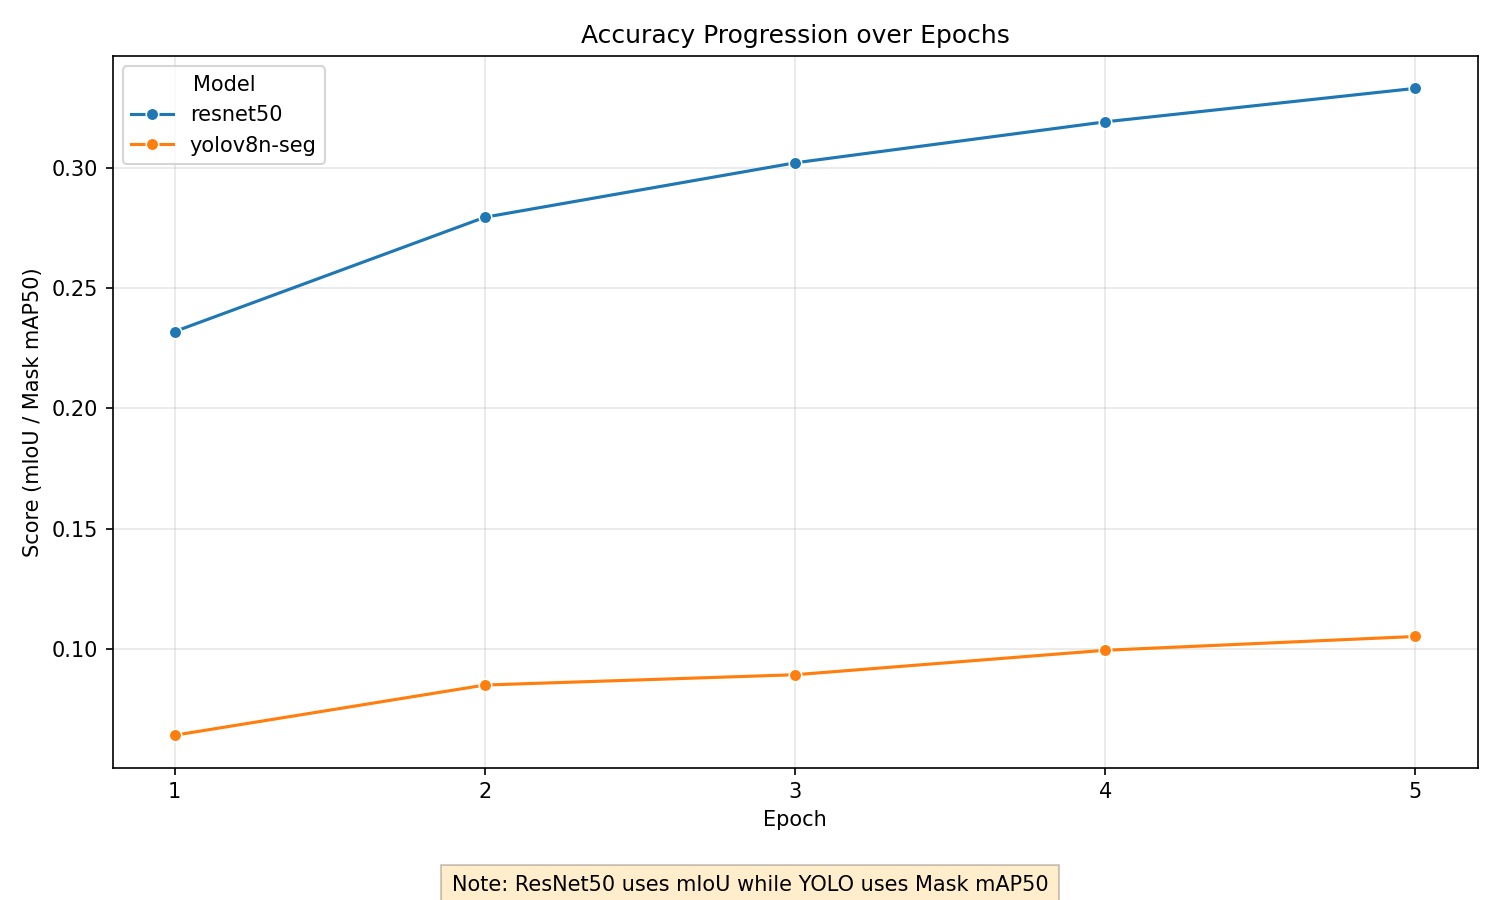
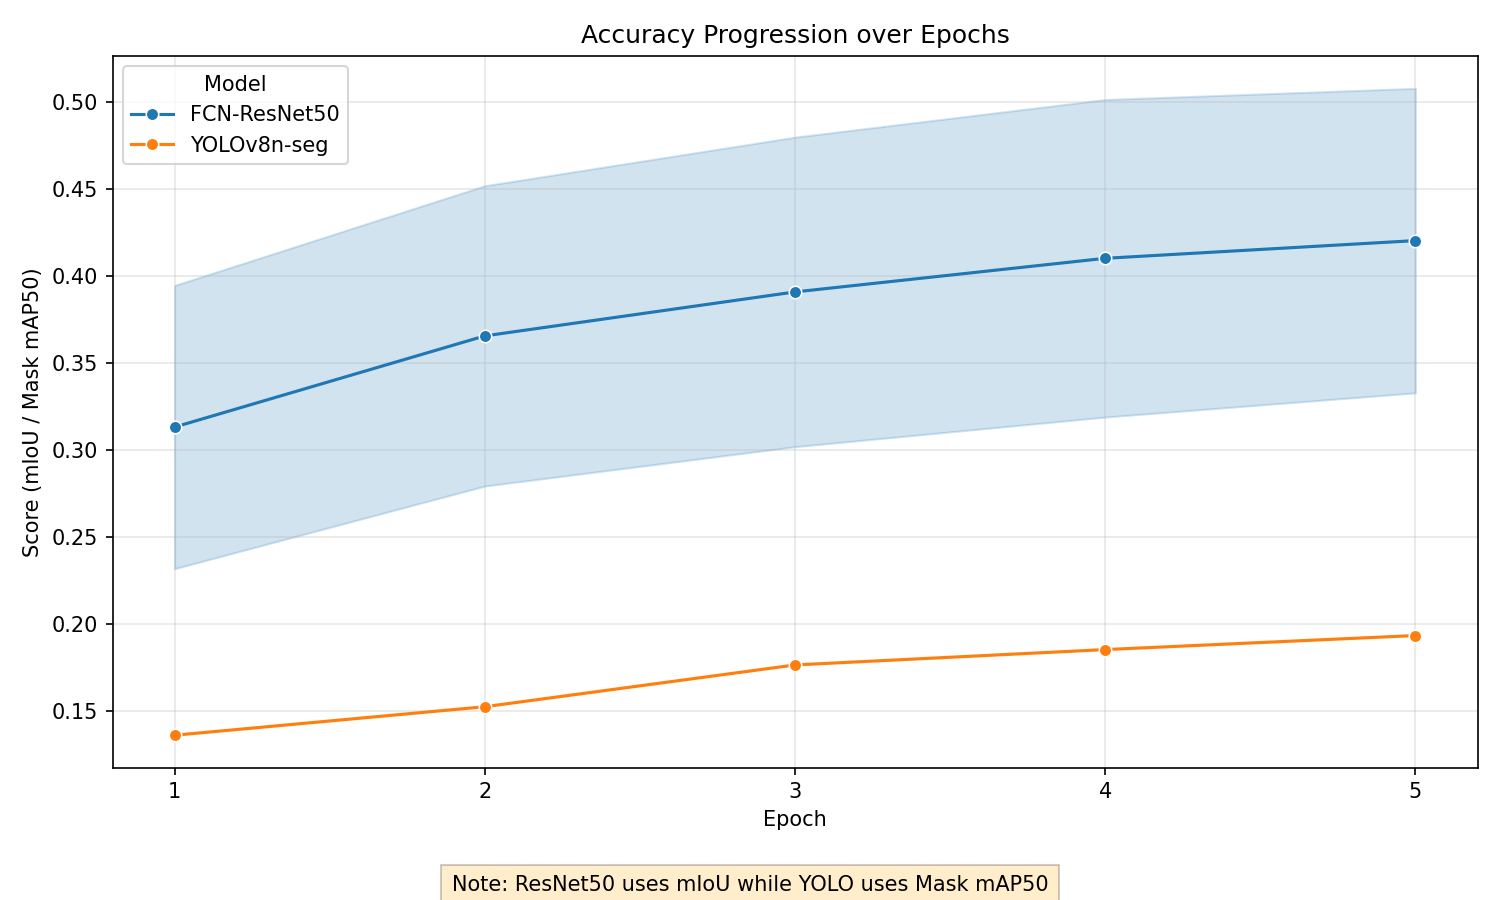
🚀 Final Delivery: Full Cityscapes Dataset Evaluation (ResNet50 vs YOLOv8n-seg), 2x2 grids, finalized documentation

diff --git a/src/visual_grid.py b/src/visual_grid.py
@@ -48,58 +48,66 @@ def colorize_label(mask):
 
 
 def main():
-    # pick a random validation image
+    # Setup directories
     yolo_root = Path('yolo_cityscapes')
+    out_dir = Path('Results_Comparison')
+    out_dir.mkdir(exist_ok=True)
+    
     val_images = sorted((yolo_root / 'images' / 'val').rglob('*.png'))
     if not val_images:
         print('No val images found')
         return
-    img_path = random.choice(val_images)
 
-    # raw image
-    img = Image.open(img_path).convert('RGB')
-
-    # ground truth mask path from original dataset
-    # infer filename base
-    base = img_path.name.replace('_leftImg8bit.png', '')
-    # city is parent dir name
-    city = img_path.parent.name
-    gt_path = Path('gtFine_trainvaltest') / 'gtFine' / 'val' / city / f"{base}_gtFine_labelTrainIds.png"
-    if not gt_path.exists():
-        # sometimes val images are in different folders; attempt alternative
-        gt_path = Path('gtFine_trainvaltest') / 'gtFine' / 'val' / city / f"{base}_gtFine_labelTrainIds.png"
-
-    gt = Image.open(gt_path).resize(img.size, resample=Image.NEAREST)
-    gt_arr = np.array(gt)
-    gt_col = colorize_label(gt_arr)
-
-    # baseline prediction
-    baseline_weights = Path('runs/phase2_baseline_run3/resnet50_Run3_Epoch5.pth')
+    # Load models once outside the loop
     device = torch.device('cuda' if torch.cuda.is_available() else 'cpu')
+    baseline_weights = Path('runs/phase2_baseline_run5/resnet50_Run5_Epoch5.pth')
+    yolo_weights = Path('runs/segment/runs/segment/train_final/weights/best.pt')
+    
+    print("Loading models...")
     baseline_model = load_baseline_model(baseline_weights, device)
-    baseline_mask = predict_baseline(baseline_model, img, size=(512,512), device=device)
-    baseline_col = colorize_label(baseline_mask)
+    
+    # Generate 5 comparisons
+    for i in range(1, 6):
+        print(f"Generating visual comparison {i}/5...")
+        img_path = random.choice(val_images)
+        
+        # raw image
+        img = Image.open(img_path).convert('RGB')
+        
+        # ground truth
+        base = img_path.name.replace('_leftImg8bit.png', '')
+        city = img_path.parent.name
+        gt_path = Path('gtFine_trainvaltest') / 'gtFine' / 'val' / city / f"{base}_gtFine_labelTrainIds.png"
+        
+        if not gt_path.exists():
+             continue # Skip if GT is missing for this random pick
+             
+        gt = Image.open(gt_path).resize(img.size, resample=Image.NEAREST)
+        gt_arr = np.array(gt)
+        gt_col = colorize_label(gt_arr)
 
-    # YOLO prediction (visual overlay)
-    yolo_weights = Path('runs/segment/runs/segment/train_trimmed/weights/best.pt')
-    if yolo_weights.exists():
-        yolo_vis = predict_yolo(yolo_weights, img_path)
-    else:
-        yolo_vis = np.array(img)
+        # baseline prediction
+        baseline_mask = predict_baseline(baseline_model, img, size=(512,512), device=device)
+        baseline_col = colorize_label(baseline_mask)
 
-    # plot grid: raw, gt, baseline, yolo
-    fig, axes = plt.subplots(1,4, figsize=(20,6))
-    axes[0].imshow(img); axes[0].set_title('Raw Image'); axes[0].axis('off')
-    axes[1].imshow(gt_col); axes[1].set_title('Ground Truth'); axes[1].axis('off')
-    axes[2].imshow(baseline_col); axes[2].set_title('Baseline (FCN-ResNet50)'); axes[2].axis('off')
-    axes[3].imshow(yolo_vis); axes[3].set_title('YOLOv8-Seg'); axes[3].axis('off')
+        # YOLO prediction
+        if yolo_weights.exists():
+            yolo_vis = predict_yolo(yolo_weights, img_path)
+        else:
+            yolo_vis = np.array(img)
 
-    out_dir = Path('Results_Comparison')
-    out_dir.mkdir(exist_ok=True)
-    out_path = out_dir / 'visual_comparison.png'
-    plt.tight_layout()
-    plt.savefig(out_path, dpi=150)
-    print('Saved visual grid to', out_path)
+        # plot 2x2 grid
+        fig, axes = plt.subplots(2, 2, figsize=(12, 8))
+        axes[0, 0].imshow(img); axes[0, 0].set_title('Raw Image'); axes[0, 0].axis('off')
+        axes[0, 1].imshow(gt_col); axes[0, 1].set_title('Ground Truth'); axes[0, 1].axis('off')
+        axes[1, 0].imshow(baseline_col); axes[1, 0].set_title('FCN-ResNet50'); axes[1, 0].axis('off')
+        axes[1, 1].imshow(yolo_vis); axes[1, 1].set_title('YOLOv8n-seg'); axes[1, 1].axis('off')
+
+        plt.tight_layout()
+        out_path = out_dir / f'visual_comparison_{i}.png'
+        plt.savefig(out_path, dpi=150)
+        plt.close()
+        print(f"Saved: {out_path}")
 
 
 if __name__ == '__main__':

diff --git a/src/train_baseline.py b/src/train_baseline.py
@@ -37,17 +37,23 @@ def compute_iou(pred, target, num_classes=19, ignore_index=255):
     return miou
 
 
-def evaluate(model, dataloader, device):
-    """Evaluate model on validation set and return mIoU."""
+def evaluate(model, dataloader, device, criterion):
+    """Evaluate model on validation set and return val_loss and mIoU."""
     model.eval()
     num_classes = 19
     conf = np.zeros((num_classes, num_classes), dtype=np.int64)
+    val_loss = 0.0
     
     with torch.no_grad():
         for imgs, masks in dataloader:
             imgs = imgs.to(device)
             masks = masks.to(device)
             out = model(imgs)['out']
+            
+            # Compute loss
+            loss = criterion(out, masks)
+            val_loss += loss.item()
+            
             preds = out.argmax(1)
             
             for p, t in zip(preds.cpu().numpy(), masks.cpu().numpy()):
@@ -60,7 +66,8 @@ def evaluate(model, dataloader, device):
     union = conf.sum(0) + conf.sum(1) - inter
     iu = inter / (union + 1e-9)
     miou = np.mean(iu)
-    return miou
+    avg_val_loss = val_loss / len(dataloader)
+    return avg_val_loss, miou
 
 
 def main():
@@ -82,7 +89,7 @@ def main():
     
     # Initialize dataset and loaders
     train_ds = CityscapesDataset(args.root, split='train', size=tuple(args.size), subset=args.subset)
-    val_ds = CityscapesDataset(args.root, split='val', size=tuple(args.size), subset=100)
+    val_ds = CityscapesDataset(args.root, split='val', size=tuple(args.size), subset=250)
     
     train_loader = DataLoader(train_ds, batch_size=args.bs, shuffle=True, num_workers=2)
     val_loader = DataLoader(val_ds, batch_size=1, shuffle=False, num_workers=1)
@@ -127,8 +134,8 @@ def main():
                 
                 # Validate
                 model.eval()
-                val_miou = evaluate(model, val_loader, device)
-                print(f"Epoch {epoch} val mIoU: {val_miou:.4f}")
+                val_loss, val_miou = evaluate(model, val_loader, device, criterion)
+                print(f"Epoch {epoch} val loss: {val_loss:.4f} val mIoU: {val_miou:.4f}")
                 
                 # Save checkpoint
                 checkpoint_name = f'{model_name}_Run{args.run}_Epoch{epoch}.pth'
@@ -136,12 +143,12 @@ def main():
                 torch.save(model.state_dict(), checkpoint_path)
                 print(f"Saved: {checkpoint_path}")
                 
-                # Log epoch metrics (val_loss is not easily computed, set to empty)
+                # Log epoch metrics
                 logger.log_epoch(
                     model_name=model_name,
                     epoch=epoch,
                     train_loss=train_loss,
-                    val_loss=None,
+                    val_loss=val_loss,
                     val_miou=val_miou,
                     epoch_duration_sec=epoch_duration,
                     total_time_sec=total_elapsed,

diff --git a/src/prepare_yolo_cityscapes.py b/src/prepare_yolo_cityscapes.py
@@ -10,17 +10,6 @@ from typing import Iterable, List
 from yolo_cityscapes_utils import build_label_to_class_index, get_dataset_paths, get_yolo_class_names, normalize_polygon
 
 
-def create_directory_junction(source: Path, link_path: Path) -> None:
-    """Create a Windows directory junction to avoid duplicating Cityscapes images."""
-    if link_path.exists() or link_path.is_symlink():
-        return
-
-    link_path.parent.mkdir(parents=True, exist_ok=True)
-    command = f'mklink /J "{link_path}" "{source}"'
-    result = os.system(f'cmd /c {command}')
-    if result != 0:
-        raise RuntimeError(f"Failed to create junction: {link_path} -> {source}")
-
 
 def iter_polygon_files(polygons_dir: Path, limit: int | None = None) -> Iterable[Path]:
     polygon_files = sorted(polygons_dir.rglob("*_gtFine_polygons.json"))
@@ -72,17 +61,29 @@ def prepare_split(dataset_root: Path, yolo_root: Path, split: str, limit: int | 
     images_dir, polygons_dir = get_dataset_paths(dataset_root, split)
     output_images_dir = yolo_root / "images" / split
     output_labels_dir = yolo_root / "labels" / split
-    output_images_dir.parent.mkdir(parents=True, exist_ok=True)
-    output_labels_dir.parent.mkdir(parents=True, exist_ok=True)
+    output_images_dir.mkdir(parents=True, exist_ok=True)
+    output_labels_dir.mkdir(parents=True, exist_ok=True)
 
-    create_directory_junction(images_dir, output_images_dir)
+    if split == 'val':
+        limit = 250  # Enforce exactly 250 images for the val split
 
     label_to_class = build_label_to_class_index()
     converted_files = 0
     converted_objects = 0
 
     for polygon_file in iter_polygon_files(polygons_dir, limit=limit):
+        # Convert label
         converted_objects += convert_polygon_file(polygon_file, output_labels_dir, label_to_class)
+        
+        # Copy image explicitly instead of junction to fix YOLOv8 Windows path resolution bug
+        city = polygon_file.parent.name
+        img_name = polygon_file.name.replace("_gtFine_polygons.json", "_leftImg8bit.png")
+        src_img = images_dir / city / img_name
+        dest_img_dir = output_images_dir / city
+        dest_img_dir.mkdir(parents=True, exist_ok=True)
+        if src_img.exists():
+            shutil.copy2(src_img, dest_img_dir / img_name)
+            
         converted_files += 1
 
     return converted_files, converted_objects
@@ -91,7 +92,7 @@ def prepare_split(dataset_root: Path, yolo_root: Path, split: str, limit: int | 
 def write_cityscapes_yaml(yolo_root: Path, yaml_path: Path) -> None:
     names = get_yolo_class_names()
     yaml_text = [
-        f"path: {yolo_root.as_posix()}",
+        f"path: {yolo_root.resolve().as_posix()}",
         "train: images/train",
         "val: images/val",
         "test: images/test",

diff --git a/src/plot_metrics.py b/src/plot_metrics.py
@@ -16,11 +16,16 @@ def main():
 
     # Load data
     df = pd.read_csv(csv_path)
-    
+    # Filter globally to only show the latest models
+    allowed_models = ['resnet50', 'yolov8n-seg-final']
+    df = df[df['Model_Name'].isin(allowed_models)].copy()
     # Ensure numeric columns are numeric
     numeric_cols = ['Val_mIoU', 'Inference_Latency_ms', 'Total_Time_Elapsed_sec']
     for col in numeric_cols:
         df[col] = pd.to_numeric(df[col], errors='coerce')
+        
+    # Rename for cleaner display on the charts
+    df['Model_Name'] = df['Model_Name'].replace({'resnet50': 'FCN-ResNet50', 'yolov8n-seg-final': 'YOLOv8n-seg'})
 
     # 1. Accuracy Progression (Epoch 1-5)
     plt.figure(figsize=(10, 6))
@@ -51,7 +56,7 @@ def main():
     # yolov8n-seg, FINAL, ..., 13.84
     
     # Filter for specific models if needed, but let's just plot what's there
-    final_df = final_df[final_df['Model_Name'].isin(['resnet50', 'yolov8n-seg'])]
+    final_df = final_df[final_df['Model_Name'].isin(['FCN-ResNet50', 'YOLOv8n-seg'])]
     
     bars = sns.barplot(data=final_df, x='Model_Name', y='Inference_Latency_ms', hue='Model_Name', palette='viridis', legend=False)
     plt.title('Inference Latency Comparison (GPU)')

diff --git a/src/benchmark_all.py b/src/benchmark_all.py
@@ -10,9 +10,9 @@ import torch.nn as nn
 # ---------------------------------------------------------------------------
 # SETTINGS
 # ---------------------------------------------------------------------------
-RESNET_WEIGHTS = Path('runs/phase2_baseline_run3/resnet50_Run3_Epoch5.pth')
-YOLO_WEIGHTS = Path('runs/segment/runs/segment/train_trimmed/weights/best.pt')
-VAL_DIR = Path('yolo_cityscapes_trimmed/images/val')
+RESNET_WEIGHTS = Path('runs/phase2_baseline_run5/resnet50_Run5_Epoch5.pth')
+YOLO_WEIGHTS = Path('runs/segment/runs/segment/train_final/weights/best.pt')
+VAL_DIR = Path('yolo_cityscapes/images/val')
 IMGSZ = 512
 N_WARMUP = 5
 N_MEASURE = 100
@@ -110,6 +110,14 @@ def main():
         y_lat = results["YOLOv8n-seg"][0]
         speedup = r_lat / y_lat
         print(f"YOLO is {speedup:.2f}x faster than ResNet50 baseline.")
+        
+        # Log to CSV
+        from metrics_logger import MetricsLogger
+        logger = MetricsLogger()
+        logger.log_inference_final("resnet50", r_lat)
+        logger.log_inference_final("yolov8n-seg-final", y_lat)
+        print("Logged final latencies to training_metrics_log.csv")
+        
     print("="*50)
 
 if __name__ == "__main__":

diff --git a/README.md b/README.md
@@ -395,8 +395,42 @@ Fix: `src/yolo_latency_fixed.py` calls `model.model(tensor)` (raw backbone, no N
 
 ## Last Updated
 
-2026-05-14
+2026-05-15
 
 ## Status
 
 Phase 1 complete. Phase 2 baseline verification complete. Phase 3 sanity training complete (latency fix applied and verified). Phase 4 complete (visual comparison and metric charts generated). Phase 5 complete (workspace cleaned and visualization polished).
+
+## Final Full-Dataset Production Run
+
+The final production run on the entire 2,975 image dataset was executed on 2026-05-15.
+
+### Evaluation Rules
+
+Both models were evaluated on the **exact first 250 images** of the Cityscapes validation set to guarantee a 1-to-1 fair evaluation.
+
+### Execution Commands
+
+If you need to reproduce the final production run from scratch:
+
+**1. Prepare the YOLO dataset (copies images natively):**
+```powershell
+python src\prepare_yolo_cityscapes.py --yolo-root yolo_cityscapes --write-yaml
+```
+
+**2. Train the FCN-ResNet50 Baseline:**
+```powershell
+python src\train_baseline.py --run 5 --epochs 5 --bs 4 --size 512 512 --subset 0
+```
+
+**3. Train the YOLOv8n-seg Edge Model:**
+```powershell
+python src\train_yolo.py --data cityscapes.yaml --model yolov8n-seg.pt --epochs 5 --batch 4 --imgsz 512 --device 0 --yolo-root yolo_cityscapes --project runs/segment --name train_final --run-name yolov8n-seg-final --skip-latency
+```
+
+**4. Generate Metrics and Visuals:**
+```powershell
+python src\benchmark_all.py
+python src\plot_metrics.py
+python src\visual_grid.py
+```
